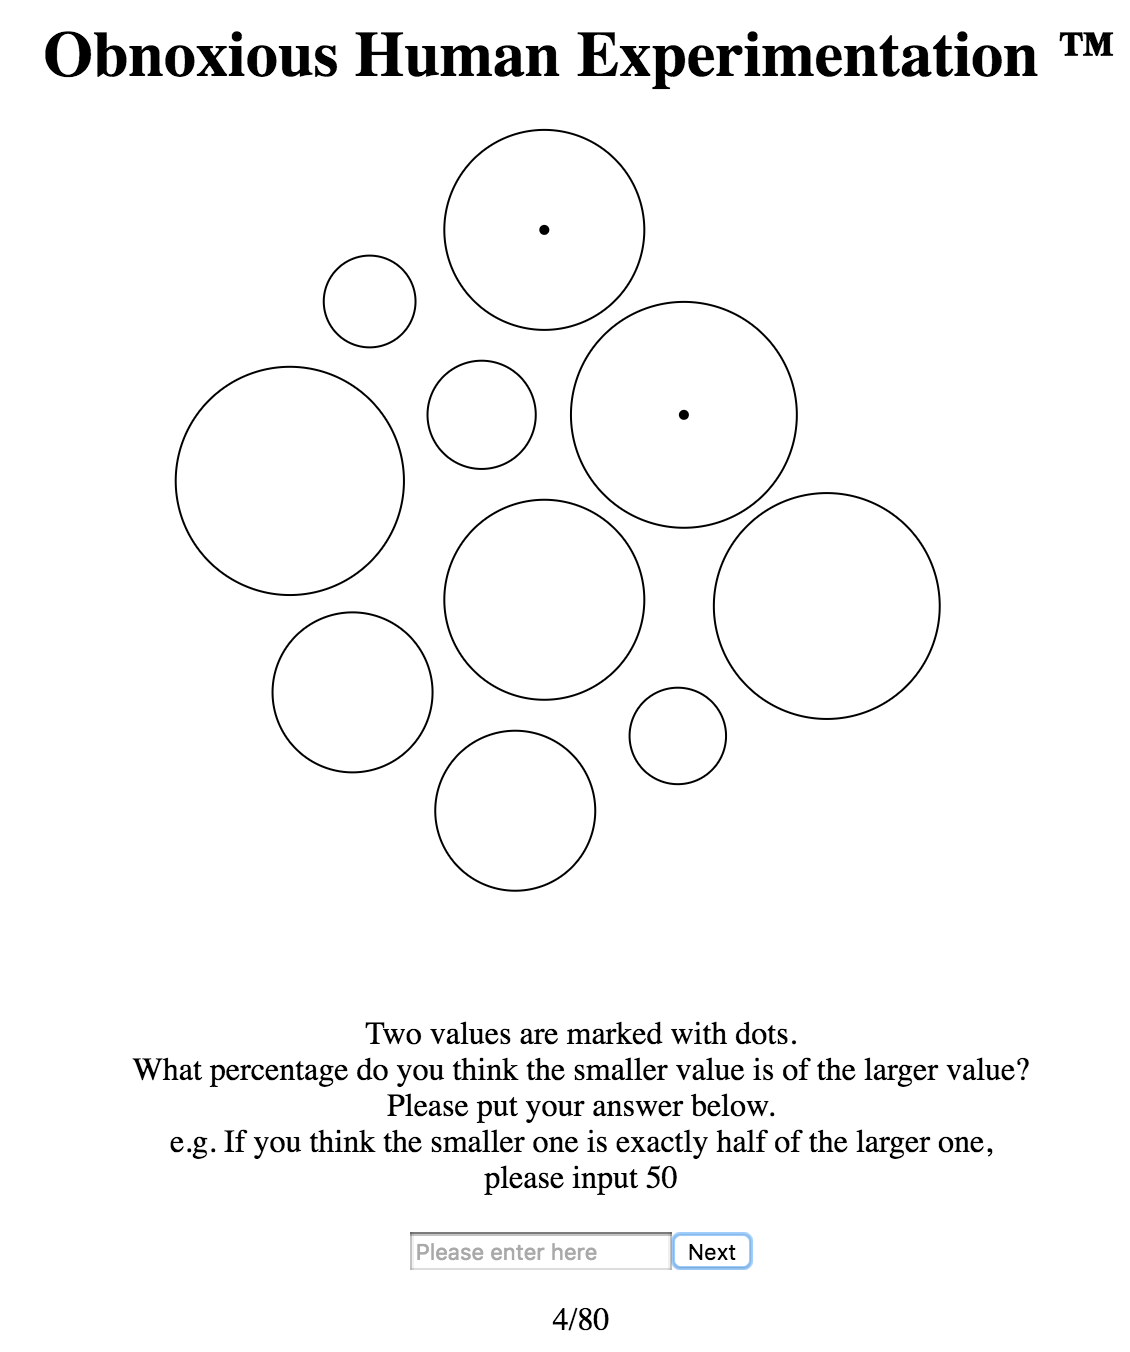
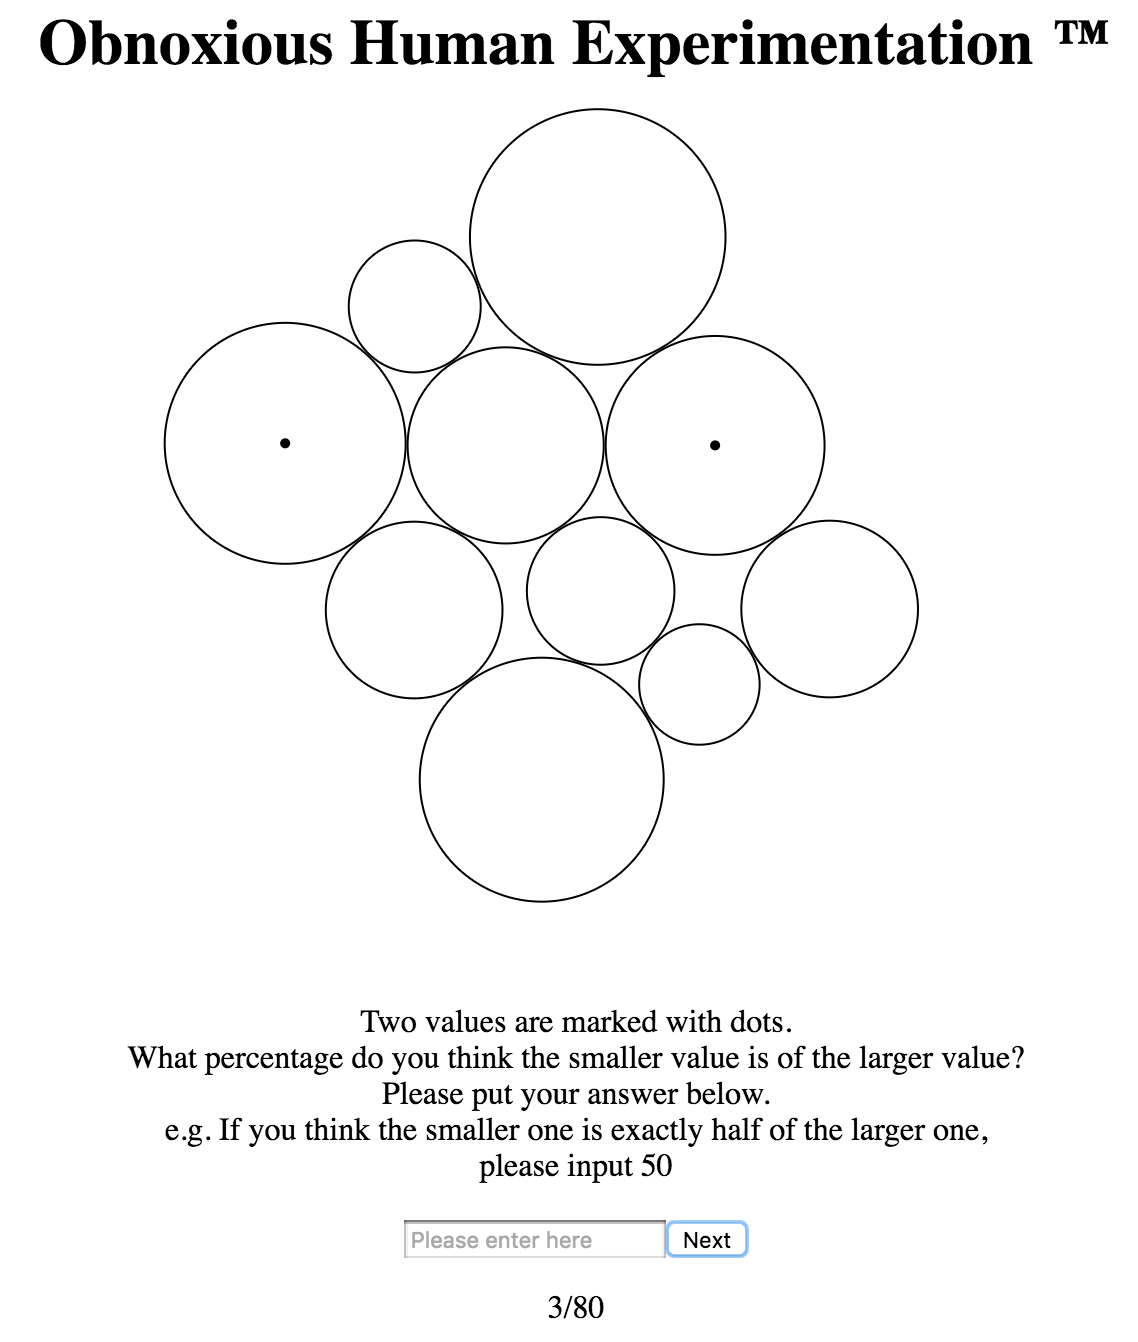
A4 modified

diff --git a/04/index.html b/04/index.html
@@ -299,6 +299,12 @@ function bubble() {
 	}
 	for(var i=0; i< 10; i++) {
 		var temp=20+Math.floor(Math.random()*80);
+		if (i==random1){
+			value1 = temp;
+		}
+		if (i==random2){
+			value2 = temp;
+		}
 		data.push(temp);
 	}
 	var bubble = d3.pack()
@@ -308,12 +314,6 @@ function bubble() {
                  .sum(function(d) { return d; });
     bubble(node);
 
-    for (var i=0; i< 10; i++) {
-    	node.children[i].r = data[i]/1.7;
-    }
-
-    value1=node.children[random1].r;
-    value2=node.children[random2].r;
     canvas.selectAll("circle")
     	  .data(node.leaves())
     	  .enter()
@@ -346,6 +346,9 @@ function bubble() {
 		  .attr("transform", "translate(40, 70)");
 	trueValue=(value2>value1)?value1/value2:value2/value1;
 	trueValue=Math.round(trueValue*100)/100;
+	console.log(trueValue)
+	console.log(node.children[random1].r)
+	console.log(node.children[random2].r)
 }
 
 function adjacent(a, b) {

diff --git a/04/README.md b/04/README.md
@@ -22,7 +22,7 @@ The hypothesis we have for the experiment is two-fold.
 
 We gathered totally 10 people to conduct the experiment, for each of the participants 20 charts per type are shown, amounts to a total number of 80 charts. In each chart 10 random values will be generated, with two randomly marked. The two marked values are never adjacent to each other, and the chart is uncolored.
 
-- We have some ideas to test adjacency and/or color, see Design Achievement section for more information.
+- We have some ideas on testing adjacency and/or color, see Design Achievement section for more information.
 
 Each participant are told to compare the value of marked value following the instruction. We decide to not explicitly tell participants what channel to look at, otherwise the misleading features of radial axis will be lost.
 
@@ -34,8 +34,16 @@ The 80 charts are generated in random order following the latin square design to
 
 After the experiment is completed, a CSV file will be generated locally, and we collect all files from the participants, merge them into one master CSV file, and start the analysis.
 
-Cover page of the experiment:
+Cover page of the experiment, note the options to test adjacency and/or color:
 ![main](img/main.png)
+Example of a bar chart:
+![bar](img/bar.png)
+Example of a pie chart:
+![pie](img/pie.png)
+Example of a bubble chart:
+![bub](img/bub.png)
+Example of a radial bar chart:
+![radial](img/radial.png)
 
 #Technical Achievements
 
@@ -73,6 +81,10 @@ Cell 1 | Cell 2 | Cell 3 | Cell 4
 
 #Design Achievements
 
+###Progress tracker
+
+This is just to give the participants some general sense of how far they've gone, because most people tend to rage quit without it after 30~40 charts.
+
 ###Switchable adjacent markers 
 
 - We have implemented a switch to toggle on/off the policy of no adjacent markers. Checking the "Adjacent" box in the first page will make all charts to only generate adjacent markers. Therefore we can test out adjacency versus no adjacency on the same type of chart.
@@ -85,6 +97,4 @@ Cell 1 | Cell 2 | Cell 3 | Cell 4
 
 ###d3's ~~pesky~~ packed layout
 
--The packed layout of d3 changes the ratio of input data, making radii of all bubbles closer to each other than they actually are. There's no official way to preserve the ratio as far as we're concerned. Therefore in order to keep the input data in the same format with other input charts, I manually scaled the auto-generated node data, altering their "r" value. This nullifies the "padding" attribute of the layout, so if you see(very rarely though) a bubble chart with some edges clipping each other, shame on ... him.
-
--Also packed layout will sometimes change the order of the random values to "pack" the bubbles, making my adjacent only design look like a joke. Duh.
+-The packed layout will sometimes change the order of the random values to "pack" the bubbles, making my adjacent only design look like a joke. Duh.
